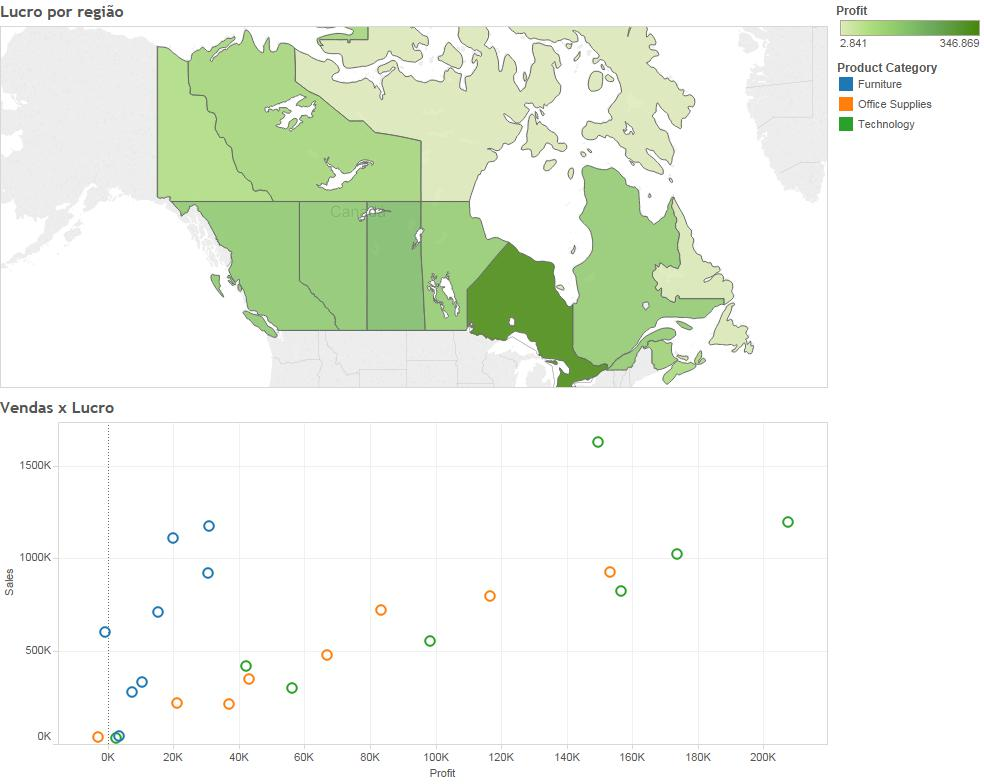
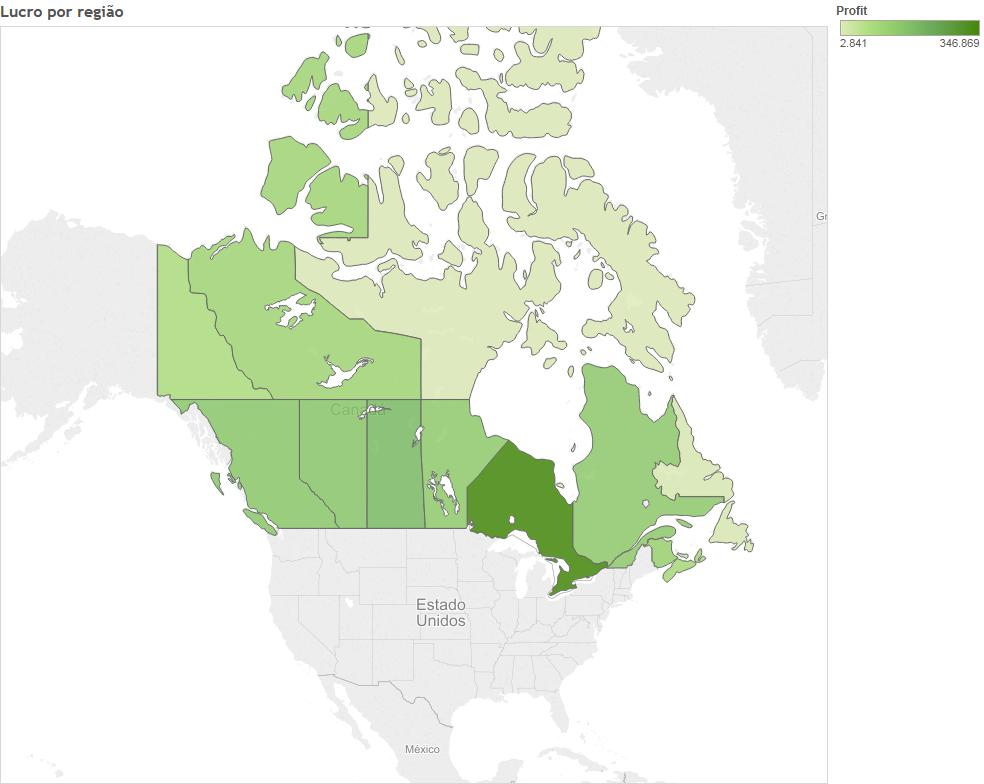
atualizacao post

diff --git a/_posts/2016-07-09-por-que-dados-nao-sao-suficientes.md b/_posts/2016-07-09-por-que-dados-nao-sao-suficientes.md
@@ -20,7 +20,9 @@ Dos gráficos acima, qual é mais perceptivo a evolução? É um exemplo bem sim
 
 Seu estudo pode ser encontrado em diversas leituras, mas simplicando, como um dado pode ser contado em diferentes formas e histórias.
 
-<script type='text/javascript' src='https://public.tableau.com/javascripts/api/viz_v1.js'></script><div class='tableauPlaceholder' style='width: 640px;'><noscript><a href='#'><img alt='Painel 1 ' src='https:&#47;&#47;public.tableau.com&#47;static&#47;images&#47;Ex&#47;Exemplo1_7&#47;Painel1&#47;1_rss.png' style='border: none' /></a></noscript><object class='tableauViz' width='1004' height='869' style='display:none;'><param name='host_url' value='https%3A%2F%2Fpublic.tableau.com%2F' /> <param name='site_root' value='' /><param name='name' value='Exemplo1_7&#47;Painel1' /><param name='tabs' value='no' /><param name='toolbar' value='yes' /><param name='static_image' value='https:&#47;&#47;public.tableau.com&#47;static&#47;images&#47;Ex&#47;Exemplo1_7&#47;Painel1&#47;1.png' /> <param name='animate_transition' value='yes' /><param name='display_static_image' value='yes' /><param name='display_spinner' value='yes' /><param name='display_overlay' value='yes' /><param name='display_count' value='yes' /><param name='showTabs' value='y' /></object></div>
+<figure>
+<img src="/assets/images/Painel1.jpg">
+</figure> 
 
 Por uma simples decisão de mostrar o lucro por província num mapa, já mudamos nossa percepção. Dessa forma teste sempre o tipo e formato que irá mostrar seus dados.
 
